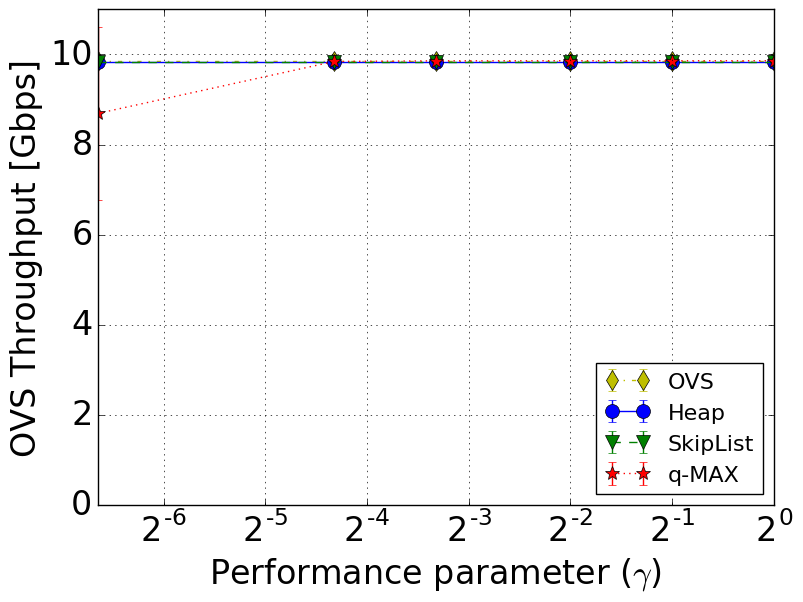
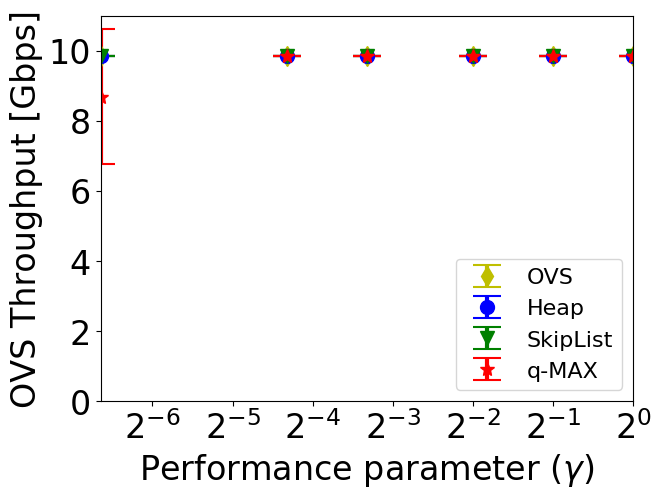
More bold error bars in OVS figures

Changed region(s): [[0.0, 0.0, 0.9985, 0.994], [0.0908, 0.4819, 0.1513, 0.5723], [0.0908, 0.6325, 0.1513, 0.7229]]

diff --git a/ovs_graphs_scripts/graph3.py b/ovs_graphs_scripts/graph3.py
@@ -27,7 +27,7 @@ del ovs_df_org['size']
 sizes=map(lambda s : 10**int(s), sys.argv[2:])
 for s, oc, hc, sc, qc in itertools.izip(sizes, ocs, hcs, scs, qcs):
 	fig, ax1 = plt.subplots(1,1)
-	ax1.grid()
+#	ax1.grid()
 	ax1.set_ylabel('OVS Throughput [Gbps]', fontsize=20)
 	ax1.set_xlabel(r'Performance parameter ($\gamma$)', fontsize=20)
 
@@ -43,14 +43,14 @@ for s, oc, hc, sc, qc in itertools.izip(sizes, ocs, hcs, scs, qcs):
 
 	#OVS
         #ax1.axhline(y=ovs_df_org.mean()['throughput'], label='OVS', markersize=10, color=oc['color'], marker=oc['marker'], linestyle=oc['linestyle'])
-	ax1.errorbar(gq['gamma'],[ovs_df_org.mean()['throughput']]*sg, yerr=[ovs_df_org.std()['throughput']]*sg, label='OVS', markersize=10, color=oc['color'], marker=oc['marker'], linestyle=oc['linestyle'])
+	ax1.errorbar(gq['gamma'],[ovs_df_org.mean()['throughput']]*sg, yerr=[ovs_df_org.std()['throughput']]*sg, label='OVS', fmt='o', linewidth=2, capsize=10, elinewidth=3, capthick=1.5 ,markersize=10, color=oc['color'], marker=oc['marker'])
 
 	# Heap
 	heap_size_df = heap_df_org[(heap_df_org['size'] == s)]
 	del heap_size_df['size']
 	gh = heap_size_df.mean()
         #ax1.axhline(y=gh['throughput'], label='Heap', markersize=10, color=hc['color'], marker=hc['marker'], linestyle=hc['linestyle'])
-        ax1.errorbar(gq['gamma'],[heap_size_df.mean()['throughput']]*sg, yerr=[heap_size_df.std()['throughput']]*sg, label='Heap', markersize=10, color=hc['color'], marker=hc['marker'], linestyle=hc['linestyle'])
+        ax1.errorbar(gq['gamma'],[heap_size_df.mean()['throughput']]*sg, yerr=[heap_size_df.std()['throughput']]*sg, label='Heap', fmt='o', linewidth=2, capsize=10, elinewidth=3, capthick=1.5, markersize=10, color=hc['color'], marker=hc['marker'])
 
 
 	# Skiplist
@@ -58,11 +58,11 @@ for s, oc, hc, sc, qc in itertools.izip(sizes, ocs, hcs, scs, qcs):
 	del skiplist_size_df['size']
 	gs = skiplist_size_df.mean()
         #ax1.axhline(y=gs['throughput'], label='SkipList', markersize=10, color=sc['color'], marker=sc['marker'], linestyle=sc['linestyle'])
-        ax1.errorbar(gq['gamma'],[skiplist_size_df.mean()['throughput']]*sg, yerr=[skiplist_size_df.std()['throughput']]*sg, label='SkipList', markersize=10, color=sc['color'], marker=sc['marker'], linestyle=sc['linestyle'])
+        ax1.errorbar(gq['gamma'],[skiplist_size_df.mean()['throughput']]*sg, yerr=[skiplist_size_df.std()['throughput']]*sg, label='SkipList', fmt='o', linewidth=2, capsize=10, elinewidth=3, capthick=1.5, markersize=10, color=sc['color'], marker=sc['marker'])
 
 	#q-MAX
         #ax1.plot(gq.mean(), label='q-MAX', markersize=10)
-	ax1.errorbar(gq['gamma'],gq['throughput']['mean'], yerr=gq['throughput']['std'], label='q-MAX', markersize=10, color=qc['color'], marker=qc['marker'], linestyle=qc['linestyle'])
+	ax1.errorbar(gq['gamma'],gq['throughput']['mean'], yerr=gq['throughput']['std'], label='q-MAX',  fmt='o', linewidth=2, capsize=10, elinewidth=3, capthick=1.5, markersize=10, color=qc['color'], marker=qc['marker'])
 
 
 	#Plot configurations
@@ -78,5 +78,5 @@ for s, oc, hc, sc, qc in itertools.izip(sizes, ocs, hcs, scs, qcs):
 	for item in ([ax1.xaxis.label, ax1.yaxis.label] +
 	             ax1.get_xticklabels() + ax1.get_yticklabels()):
 	    item.set_fontsize(24)
-	#plt.show()
+#	plt.show()
 	plt.savefig('graph3-'+G+'G-q='+str([s])+'.png', bbox_inches='tight')

diff --git a/ovs_graphs_scripts/graph4.py b/ovs_graphs_scripts/graph4.py
@@ -16,23 +16,22 @@ def mfunc(syms):
 markers = ['v','o','^','*','d','8']
 mark = mfunc(markers)
 
-multichrome = cycler(color=list('ybgrcm')) + cycler(linestyle=['-.','-', '--', ':', '-.', '-'])
+multichrome = cycler(color=list('ybgrcm')) #+ cycler(linestyle=['-.','-', '--', ':', '-.', '-'])
 fig, ax1 = plt.subplots(1,1)
 ax1.set_prop_cycle(multichrome)
-ax1.grid()
+#ax1.grid()
 
 ax1.set_xlabel(r'Reservior size ($q$)', fontsize=20)
 ax1.set_xscale('log')
 ax1.set_ylabel('OVS Throughput [Gbps]', fontsize=20)
 
-df_org = pd.read_csv('../ovs_results/graph3_' + G+ 'G.txt', skipinitialspace=True)
+df_org = pd.read_csv('../ovs_results/graph3_' + G + 'G.txt', skipinitialspace=True)
 df_org['throughput'] = df_org['throughput'] / 1000000000
 
 # OVS
 trace_o = df_org[(df_org['type'] == 'OVS')]
-oh = trace_o.mean()
 #ax1.axhline(y=oh['throughput'], label='OVS', markersize=10, color='y', marker='d', linestyle='-.')
-ax1.errorbar(sizes,[trace_o.mean()['throughput']]*ss, yerr=[trace_o.std()['throughput']]*ss, label='OVS', markersize=10, marker=next(mark))
+ax1.errorbar(sizes,[trace_o.mean()['throughput']]*ss, yerr=[trace_o.std()['throughput']]*ss, label='OVS', markersize=10, marker=next(mark), fmt='o', linewidth=2, capsize=10, elinewidth=3, capthick=1.5)
 
 df_org = df_org[df_org['size'].isin(sizes)]
 
@@ -41,14 +40,14 @@ trace_h = df_org[(df_org['type'] == 'Heap')]
 del trace_h['gamma']
 gh = trace_h.groupby(['size']).agg(['mean', 'std']).reset_index()['throughput']
 #ax1.plot(gh_mean, label='Heap', markersize=10)
-ax1.errorbar(sizes, gh['mean'], yerr=gh['std'], label='Heap', markersize=10, marker=next(mark))
+ax1.errorbar(sizes, gh['mean'], yerr=gh['std'], label='Heap', markersize=10, marker=next(mark), fmt='o', linewidth=2, capsize=10, elinewidth=3, capthick=1.5)
 
 # SkipList
 trace_s = df_org[(df_org['type'] == 'Skiplist')]
 del trace_s['gamma']
 gs = trace_s.groupby(['size']).agg(['mean', 'std']).reset_index()['throughput']
 #ax1.plot(gs_mean, label='SkipList', markersize=10)
-ax1.errorbar(sizes, gs['mean'], yerr=gs['std'], label='SkipList', markersize=10, marker=next(mark))
+ax1.errorbar(sizes, gs['mean'], yerr=gs['std'], label='SkipList', markersize=10, marker=next(mark), fmt='o', linewidth=2, capsize=10, elinewidth=3, capthick=1.5)
 
 for l in [0.05, 0.1, 0.25]:
     trace_a = df_org[(df_org['type'] == 'QMax')]
@@ -56,16 +55,13 @@ for l in [0.05, 0.1, 0.25]:
     del trace_a['gamma']
     ga = trace_a.groupby(['size']).agg(['mean', 'std']).reset_index()['throughput']
     #ax1.plot(ga_mean, label=r'$q$-MAX,$\gamma=$' + str(l), markersize=10)
-    ax1.errorbar(sizes, ga['mean'], yerr=ga['std'], label=r'$q$-MAX,$\gamma=$' + str(l), markersize=10, marker=next(mark))
+    ax1.errorbar(sizes, ga['mean'], yerr=ga['std'], label=r'$q$-MAX,$\gamma=$' + str(l), markersize=10, marker=next(mark), fmt='o', linewidth=2, capsize=10, elinewidth=3, capthick=1.5)
 
 handles, labels = ax1.get_legend_handles_labels()
 ax1.legend(handles, labels, loc='lower left', bbox_to_anchor=(0,0), ncol=1, prop={'size': 16})
 plt.xlim(xmin=10**4, xmax=10**7)
-#ax1.legend(handles, labels, loc=3, prop={'size': 16})
 fig.tight_layout()
 plt.tick_params(axis='both', which='major', labelsize=16)
-#ax1.set_yscale('log', basey=2)
-#plt.yscale('log')
 #plt.show()
 plt.savefig('graph4-'+G+'G.png', bbox_inches='tight')
 
